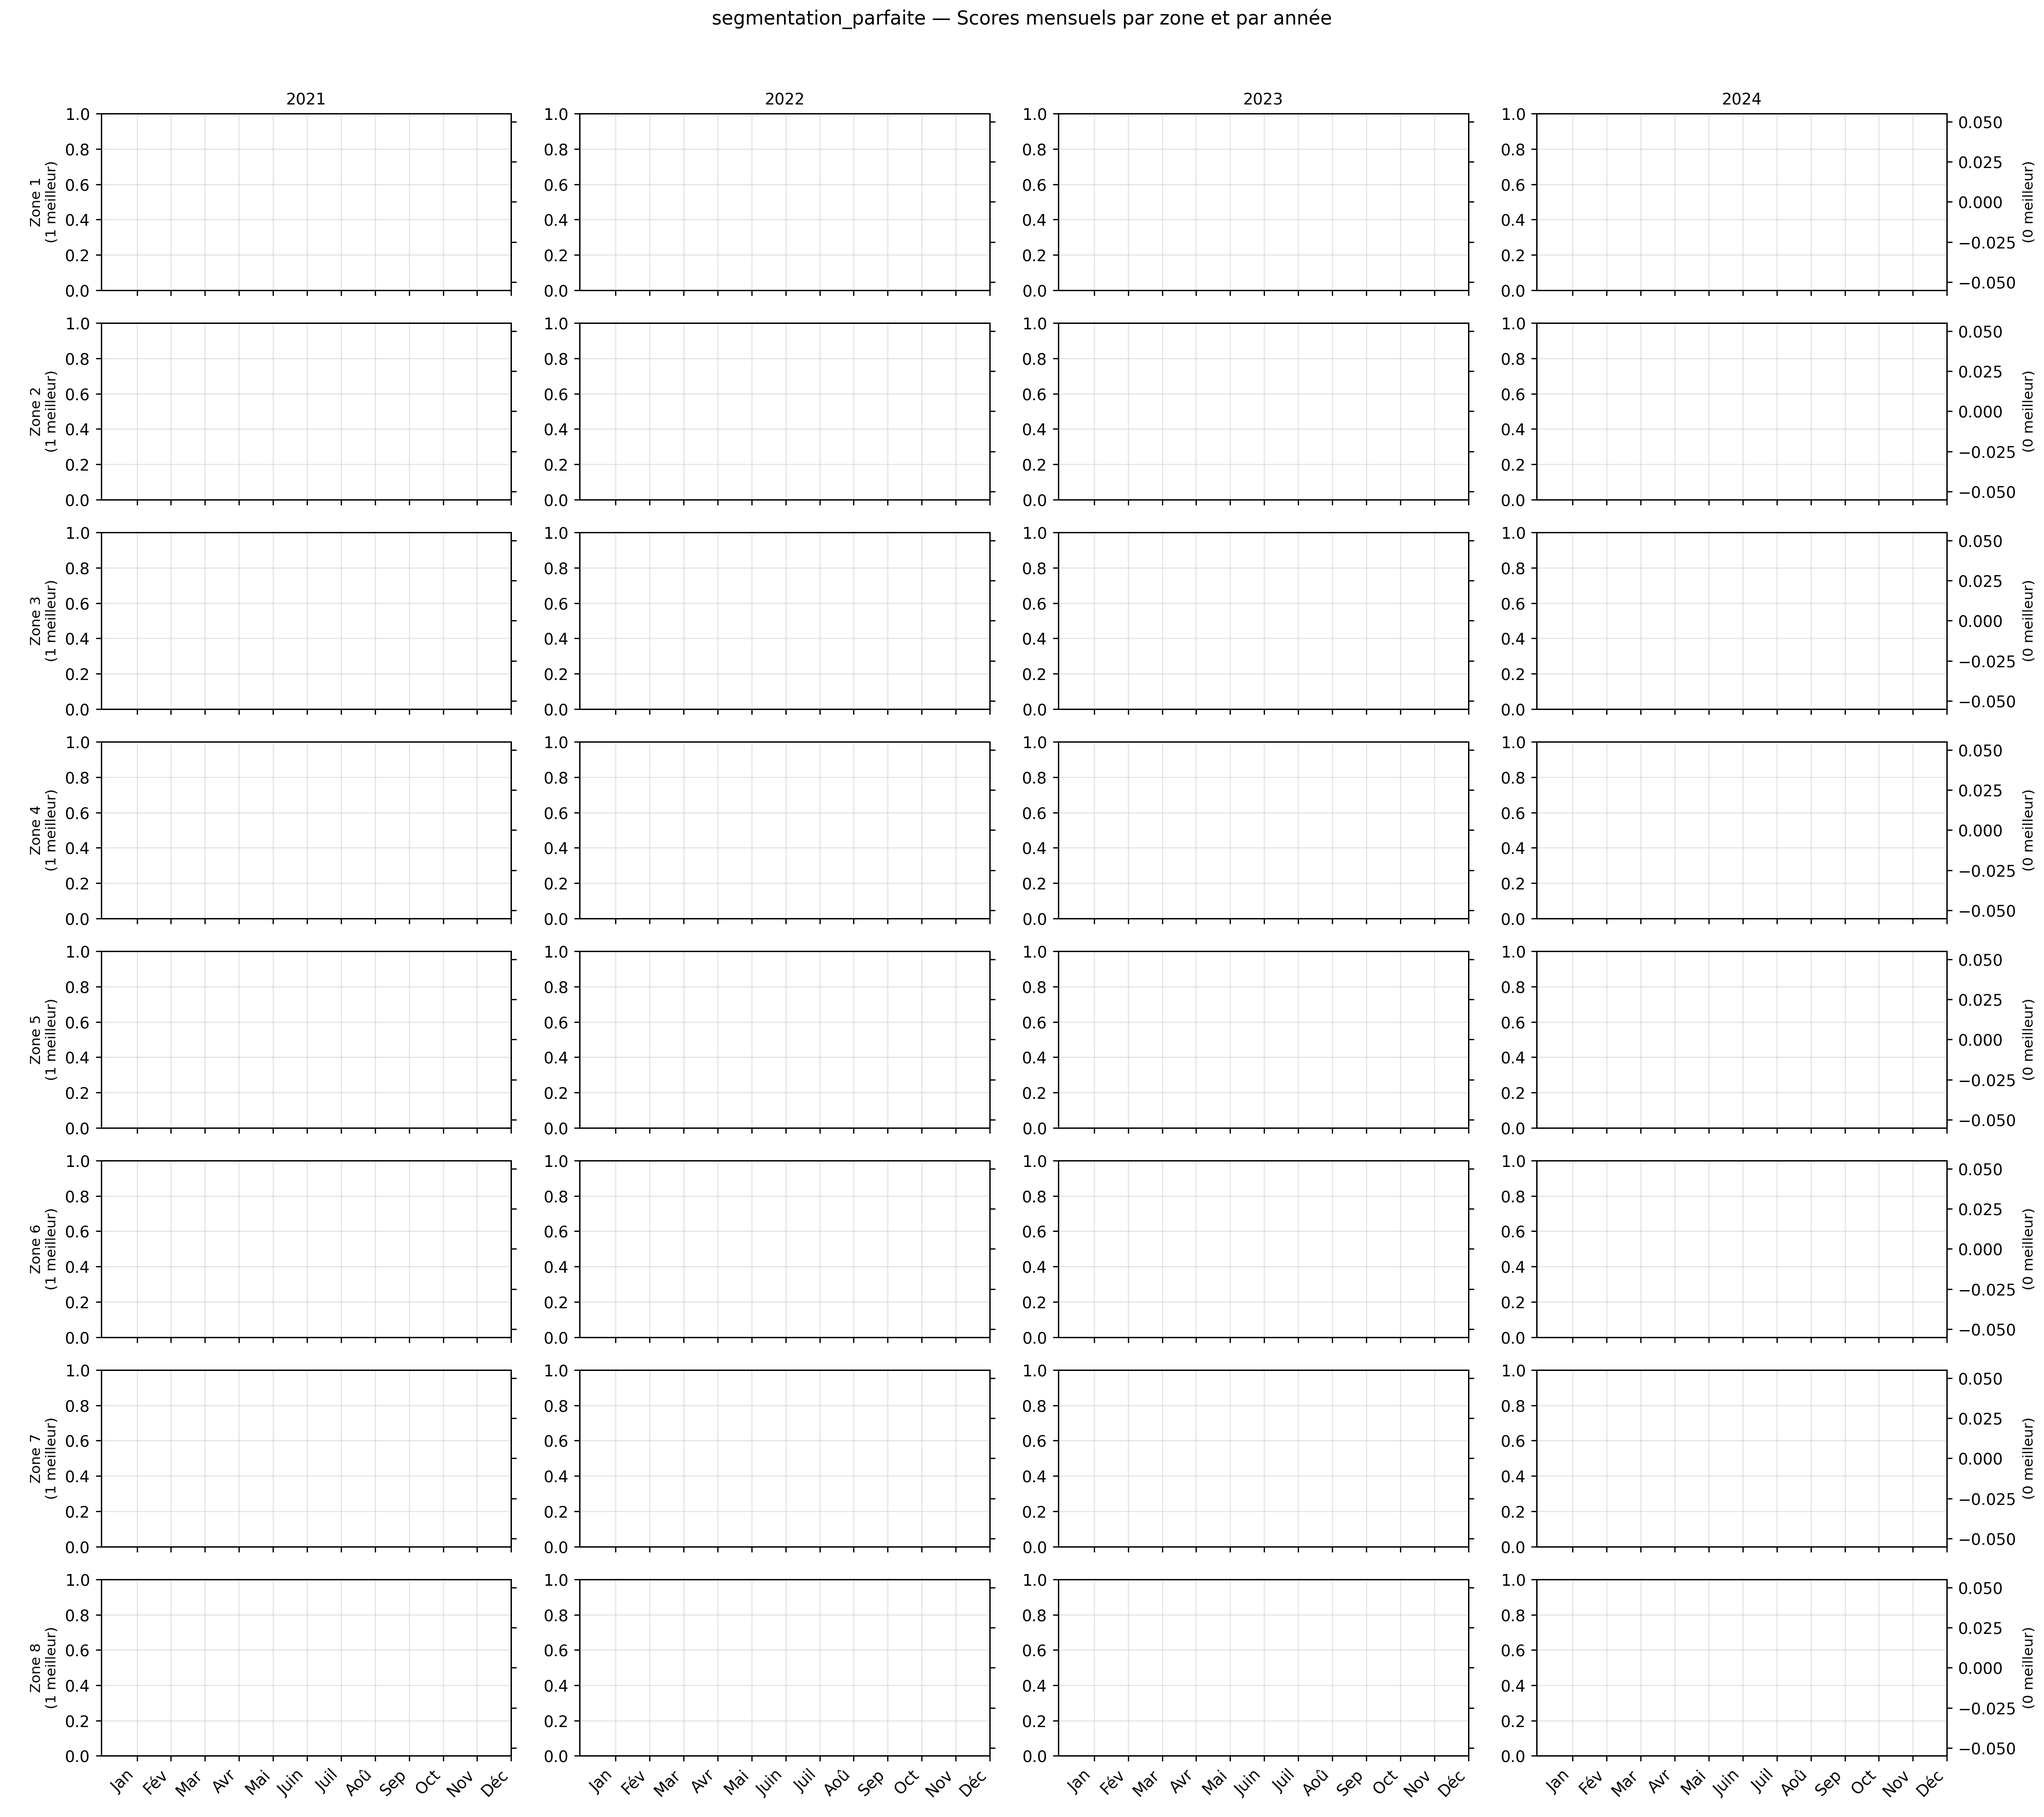
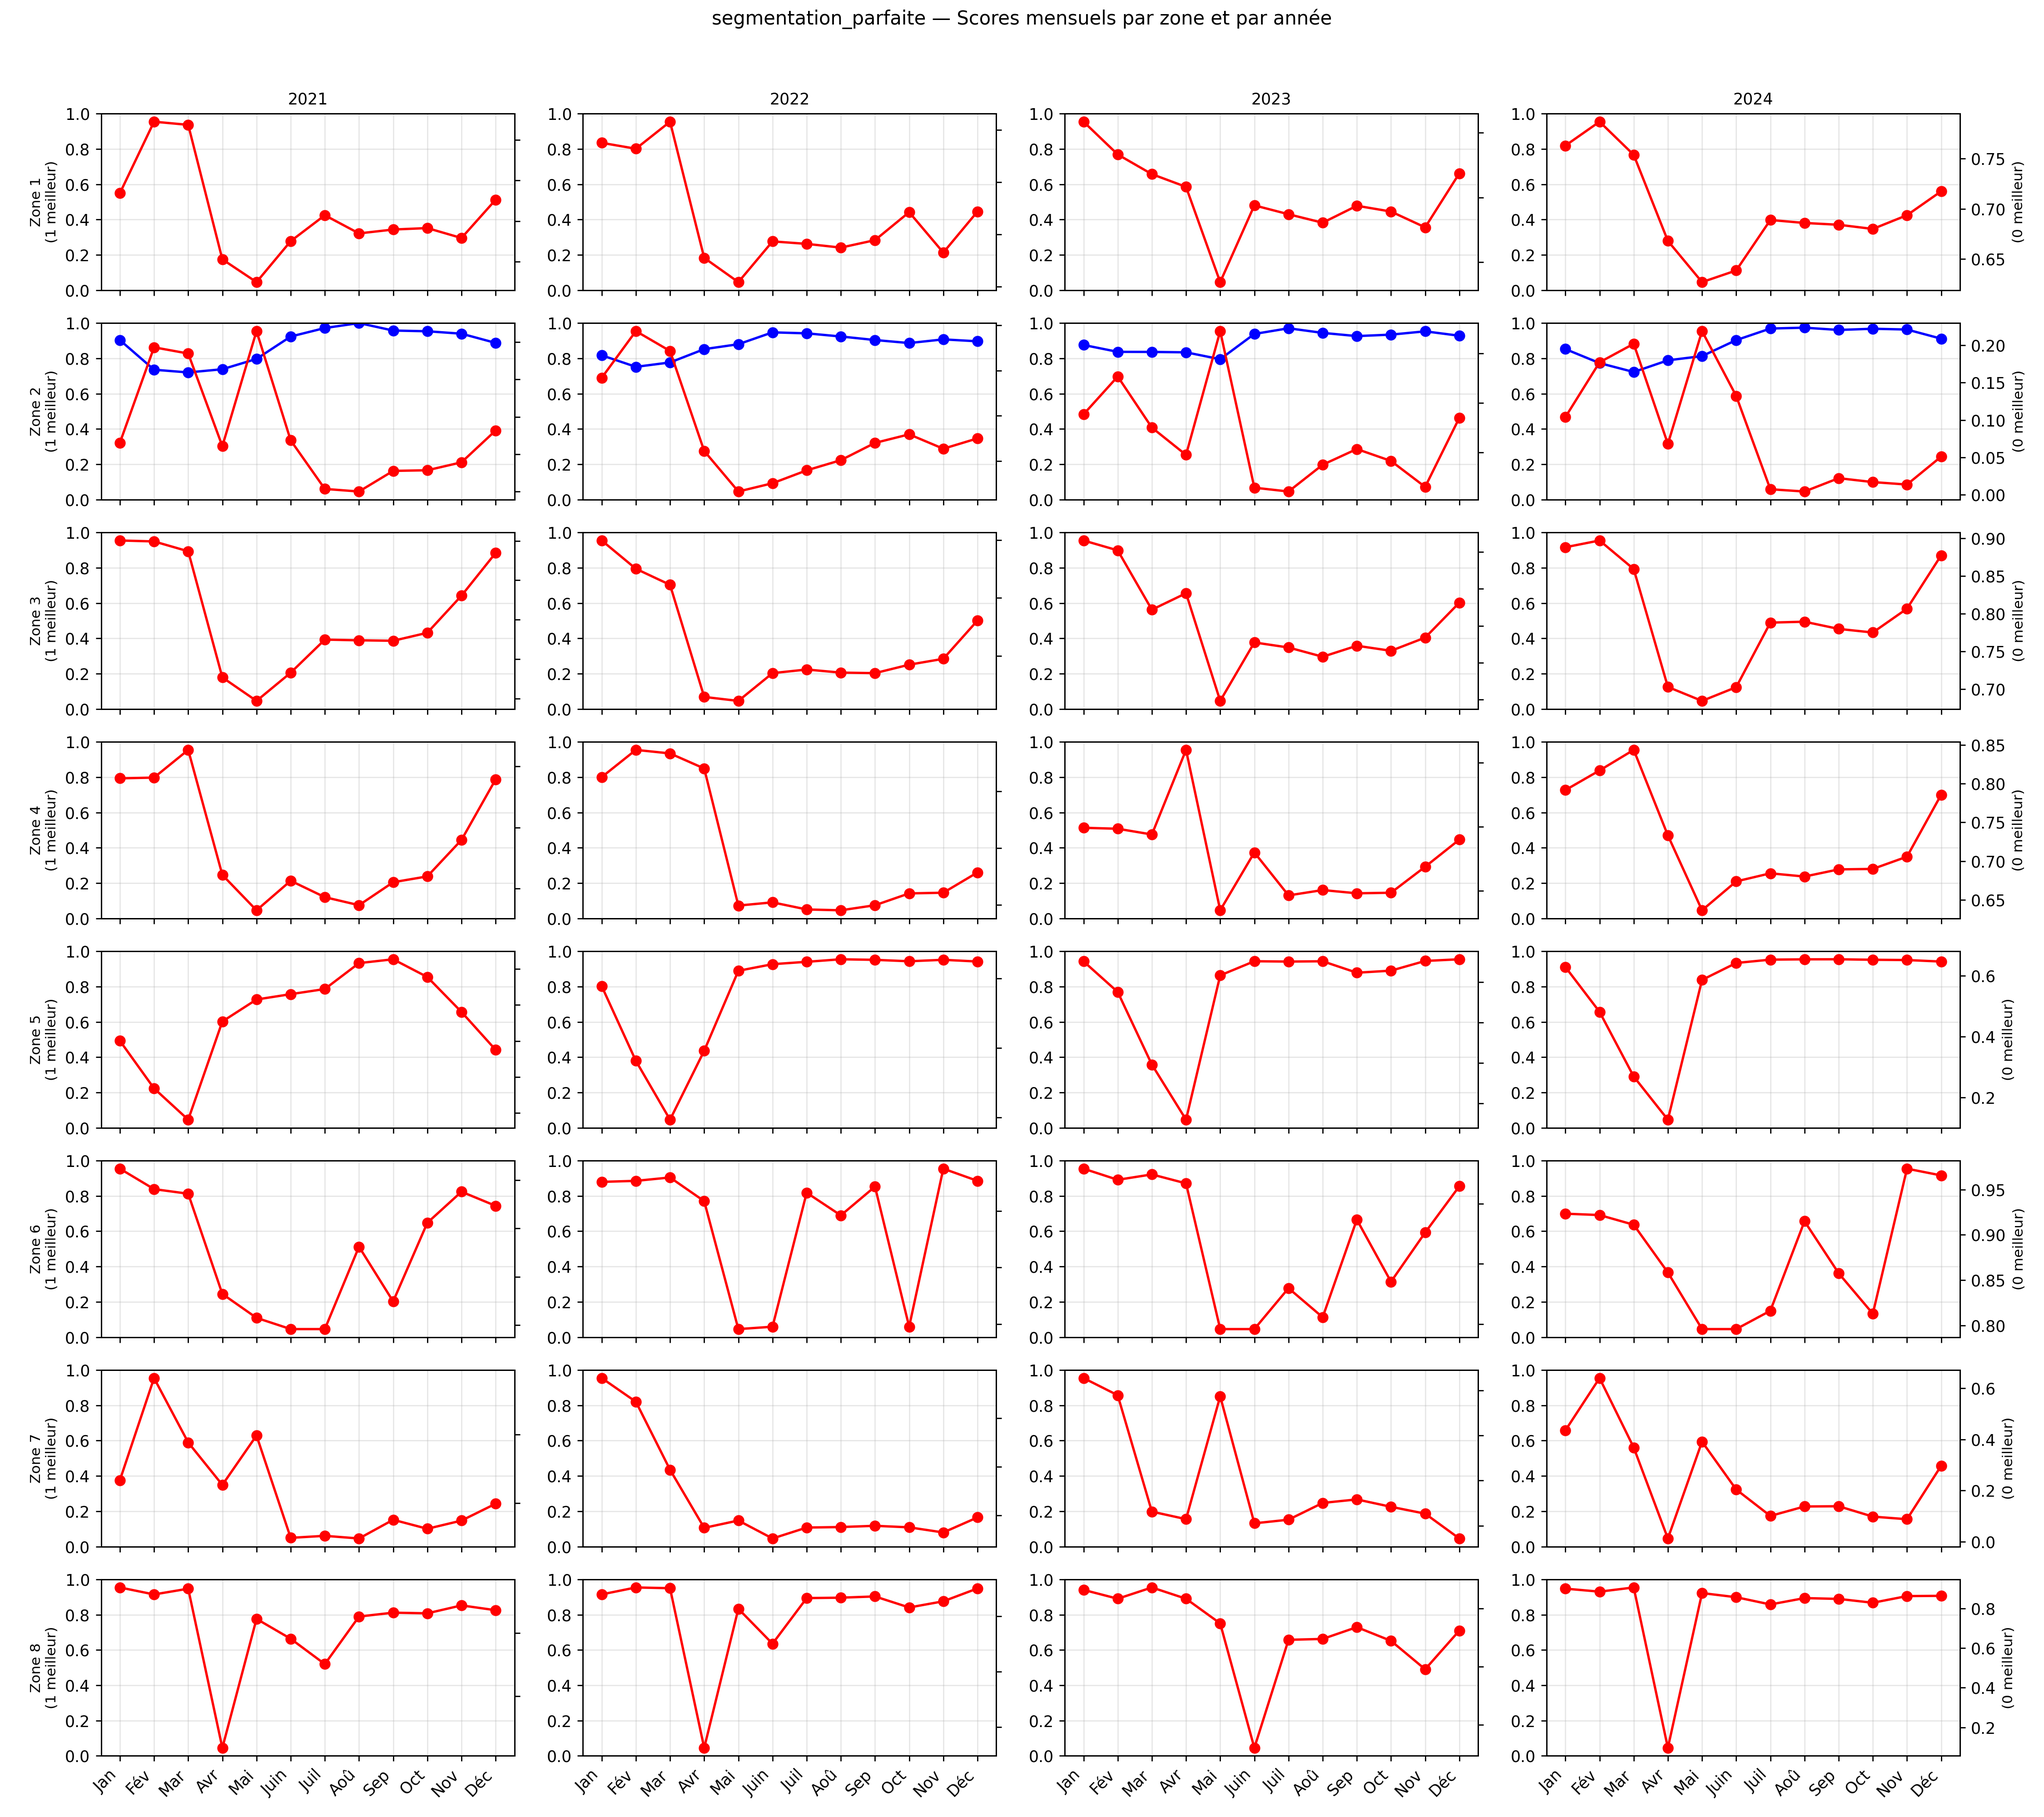
ajout des graphiques des scores

diff --git a/codes/manipulation_images_tif.py b/codes/manipulation_images_tif.py
@@ -393,34 +393,111 @@ Similarité structurelle moyenne  : {round(np.nanmean(ssim_vals),3)}
         
         f.write(resultat)
 
+def moyenne_scores_annees(fonction_segmentation: Callable[[MaskedArray], ndarray],
+                        annees: list[int] = [2021, 2022, 2023, 2024]) -> None:
+
+    temps_execution = []
+
+    hamming_vals = []
+    diff_aire_vals = []
+    fausse_vals = []
+
+    vraie_vals = []
+    accuracy_vals = []
+    corr_vals = []
+    ssim_vals = []
+
+    for annee in annees:
+        for zone in range(1, 9):
+
+            print(f"segmentation Zone {zone}/8 ", end="")
+
+            dir_oasis = f'./Data/Test_zone{zone}/STATS/MeanMonthly/'
+            dir_gt = f'./GroundTruth_DYN/Test_zone{zone}/'
+
+            for mois in range(1, 13):
+
+                print(f".", end="")
+
+                date = f"{annee}{mois:02d}"
+                img_path = premier_fichier_dossier(f"{dir_oasis}*{date}*.tif")
+
+                if img_path is None:
+                    continue
+
+                gt_path = premier_fichier_dossier(f"{dir_gt}*{date}*.tif")
+
+                if gt_path is None:
+                    continue
+
+                image_oasis = recuperer_image(img_path)
+                image_gt = recuperer_image(gt_path).astype(int)
+
+                start = time.time()
+                image_seg = fonction_segmentation(image_oasis)
+                end = time.time()
+
+                temps_execution.append(end - start)
+
+                hamming_vals.append(distance_hamming(image_seg, image_gt))
+                diff_aire_vals.append(difference_aire(image_seg, image_gt))
+                fausse_vals.append(fausse_detection(image_seg, image_gt))
+
+                vraie_vals.append(vraie_detection(image_seg, image_gt))
+                accuracy_vals.append(score_precision(image_seg, image_gt))
+                corr_vals.append(score_correlation(image_seg, image_gt))
+                ssim_vals.append(similarite_structurelle(image_seg, image_gt))
+
+            print()
+
+    resultat = f"""
+Scores moyens sur toutes les années {annees} :
+
+Temps d'éxécution moyen          : {round(np.mean(temps_execution), 3)}
+
+Distance de Hamming moyenne      : {round(np.nanmean(hamming_vals), 3)}
+Différence d'aire moyenne        : {round(np.nanmean(diff_aire_vals), 3)}
+Fausse détection moyenne         : {round(np.nanmean(fausse_vals), 3)}
+
+Vraie détection moyenne          : {round(np.nanmean(vraie_vals), 3)}
+Score de précision moyen         : {round(np.nanmean(accuracy_vals), 3)}
+Corrélation moyenne              : {round(np.nanmean(corr_vals), 3)}
+Similarité structurelle moyenne  : {round(np.nanmean(ssim_vals), 3)}
+"""
+
+    print(resultat)
+
+    with open(f"{DOSSIER_SORTIE}/score_{fonction_segmentation.__name__}.txt", "w") as f:
+        f.write(resultat)
+
+
+def scores_0(pred, gt):
+
+    scores = [
+        distance_hamming(pred, gt),
+        difference_aire(pred, gt),
+        fausse_detection(pred, gt)
+    ]
+
+    return np.nanmean(scores)
+
+def scores_1(pred, gt):
+
+    scores = [
+        vraie_detection(pred, gt),
+        score_precision(pred, gt),
+        score_correlation(pred, gt),
+        similarite_structurelle(pred, gt)
+    ]
+
+    return np.nanmean(scores)
+
 def graphe_scores_mensuels_2courbes_8zones_4ans(fonction_segmentation: Callable[[MaskedArray], ndarray],
                                                annees: list[int] = [2021, 2022, 2023, 2024],
                                                mean_monthly: bool = True,
                                                resolution: int = 250,
-                                               figsize: tuple[int, int] = (18, 16)) -> None:
+                                               figsize: tuple[int, int] = (16, 14)) -> None:
     
-    def _to_binary(a):
-        if hasattr(a, "filled"):
-            a = a.filled(0)
-        return (a > 0).astype(np.uint8)
-
-    def iou_score(pred, gt):
-        p = _to_binary(pred).ravel()
-        g = _to_binary(gt).ravel()
-        inter = np.sum((p == 1) & (g == 1))
-        union = np.sum((p == 1) | (g == 1))
-        return 1.0 if union == 0 else inter / union
-
-    def score_0_meilleur(pred, gt):
-        if "distance_hamming" in globals():
-            return distance_hamming(pred, gt)
-        if "difference_aire" in globals():
-            return difference_aire(pred, gt)
-        if "fausse_detection" in globals():
-            return fausse_detection(pred, gt)
-        
-        return np.nan
-
     mois_labels = ["Jan", "Fév", "Mar", "Avr", "Mai", "Juin", "Juil", "Aoû", "Sep", "Oct", "Nov", "Déc"]
     x = np.arange(1, 13)
 
@@ -429,10 +506,10 @@ def graphe_scores_mensuels_2courbes_8zones_4ans(fonction_segmentation: Callable[
     if n_years == 1:
         axes = axes.reshape(8, 1)
 
-    temps_execution = []
-
     for j, annee in enumerate(annees):
+        
         for i, zone in enumerate(range(1, 9)):
+
             ax = axes[i, j]
 
             dir_oasis = f'./Data/Test_zone{zone}/{"STATS/MeanMonthly" if mean_monthly else "OASIS"}/'
@@ -447,29 +524,21 @@ def graphe_scores_mensuels_2courbes_8zones_4ans(fonction_segmentation: Callable[
                 gt_path = premier_fichier_dossier(f"{dir_gt}*{date}*.tif")
 
                 if img_path is None or gt_path is None:
-                    s1.append(np.nan)
-                    s0.append(np.nan)
                     continue
 
                 image = recuperer_image(img_path)
-                image_gt = recuperer_image(gt_path).astype(int)
-
-                start = time.time()
+                image_gt = image_reference_binaire(recuperer_image(gt_path))
                 image_seg = fonction_segmentation(image)
-                end = time.time()
-                temps_execution.append(end - start)
 
-                s1.append(iou_score(image_seg, image_gt))
-                s0.append(score_0_meilleur(image_seg, image_gt))
+                s1.append(scores_1(image_seg, image_gt))
+                s0.append(scores_0(image_seg, image_gt))
 
-            ax.plot(x, s1, marker="o", color="blue")
+            
+            ax.plot(x, s1, marker="o", color="blue", label="Scores vers 1")
+            ax.plot(x, s0, marker="o", color="red", label="Scores vers 0")
             ax.set_ylim(0, 1)
-            ax.grid(True, alpha=0.3)
-
-            ax2 = ax.twinx()
-            ax2.plot(x, s0, marker="o", color="red")
-
-            ax.set_xticks(x)
+            ax.legend(loc="upper right", fontsize=8)
+            
             if i == 7:
                 ax.set_xticklabels(mois_labels, rotation=45, ha="right")
             else:
@@ -479,44 +548,37 @@ def graphe_scores_mensuels_2courbes_8zones_4ans(fonction_segmentation: Callable[
                 ax.set_title(f"{annee}", fontsize=10)
 
             if j == 0:
-                ax.set_ylabel(f"Zone {zone}\n(1 meilleur)", fontsize=9)
+                ax.set_ylabel(f"Zone {zone}\n", fontsize=9)
             else:
                 ax.set_ylabel("")
 
-            if j == n_years - 1:
-                ax2.set_ylabel("(0 meilleur)", fontsize=9)
-            else:
-                ax2.set_ylabel("")
-                ax2.set_yticklabels([])
 
     fig.suptitle(f"{fonction_segmentation.__name__} — Scores mensuels par zone et par année", y=0.995)
     plt.tight_layout(rect=[0, 0, 1, 0.98])
     plt.savefig(f"{DOSSIER_SORTIE}/scores_8zones_4ans_2courbes_{fonction_segmentation.__name__}.png", dpi=resolution)
     plt.show()
 
-    if len(temps_execution) > 0:
-        print(f"temps d'éxécution moyen : {round(float(np.mean(temps_execution)), 3)} s")
-
 
 
 if __name__ == "__main__": # tests
 
 
-    def segmentation_parfaite(image : MaskedArray) -> ndarray:
+    def segmentation_test(image : MaskedArray) -> ndarray:
 
-        image_ref = image_reference_binaire(recuperer_image("GroundTruth_DYN/Test_zone2/Var_202108.tif"))
+        image = np.nan_to_num(image, nan=0)
+        image[image < 0.5] = 0
 
-        return image_ref
+        return image
 
 
     #image_ref = recuperer_images(zone = 2, selected_dates=['20210816'])[0]
     #image_ref = recuperer_image("./Data/Test_zone6/OASIS/s1a_fusion_ASC_161_20210118_oasis_VV_Offset55_Test_zone6.tif")
-    #image_segmentee = segmentation_parfaite(image_ref)
+    #image_segmentee = segmentation_test(image_ref)
 
-    #test_segmentation(image_ref, segmentation_parfaite)
-    tests_segmentation(segmentation_parfaite)
-    moyenne_scores(segmentation_parfaite)
-    #graphe_scores_mensuels_2courbes_8zones_4ans(segmentation_parfaite)
+    #test_segmentation(image_ref, segmentation_test)
+    #tests_segmentation(segmentation_test)
+    #moyenne_scores(segmentation_test)
+    graphe_scores_mensuels_2courbes_8zones_4ans(segmentation_test)
     
 
     

diff --git a/codes/RF2.py b/codes/RF2.py
@@ -44,7 +44,7 @@ def train_random_forest(images : list[MaskedArray], masks : list[MaskedArray]) -
         max_depth=10,
         random_state=0,
         n_jobs=5,
-        verbose=2 #2
+        verbose=0 # 2
     )
     model.fit(x_train, y_train)
 
@@ -107,7 +107,7 @@ def load_model(filemane : str) -> RandomForestClassifier:
 
 if __name__ == "__main__":
 
-
+    """
     images, masks = load_training_data(annees=[2021,2022])
     print(f"nombre d'images : {len(images)}/{len(masks)}")
 
@@ -118,14 +118,17 @@ if __name__ == "__main__":
     print(f"temps d'entrainement {round(end-start,3)} secondes")
    
     save_model(model,"entrainement RF 2021-2022")
+    """
 
+    model = load_model("entrainement RF 2021-2022")
 
     def segmentation_random_forest(image : np.ma.MaskedArray) -> np.ndarray:
 
         return predict_segmentation(model, image)
-
+    
     #image_test = recuperer_images(mean_monthly=True,zone=5,selected_dates=['202407'])[0]
     #test_segmentation(image_test, segmentation_random_forest)
 
     #tests_segmentation(segmentation_random_forest,annee=2023)
-    #moyenne_scores_annees(segmentation_random_forest, annees=[2023,2024])
+    moyenne_scores_annees(segmentation_random_forest, annees=[2023,2024])
+    graphe_scores_mensuels_2courbes_8zones_4ans(segmentation_random_forest)

diff --git a/codes/seuilF.py b/codes/seuilF.py
@@ -24,5 +24,6 @@ if __name__ == "__main__": # tests
     #image_ref = recuperer_images(zone=5, selected_dates=['202102'])[0]
     #test_segmentation(image_ref, segmentation_seuillage_fixe)
     
-    tests_segmentation(segmentation_seuillage_fixe, annee=2021)
-    moyenne_scores_annees(segmentation_seuillage_fixe)
+    #tests_segmentation(segmentation_seuillage_fixe, annee=2021)
+    #moyenne_scores_annees(segmentation_seuillage_fixe)
+    graphe_scores_mensuels_2courbes_8zones_4ans(segmentation_seuillage_fixe)

diff --git a/codes/manipulation_image_tif.py b/codes/manipulation_image_tif.py
@@ -389,7 +389,7 @@ Similarité structurelle moyenne  : {round(np.nanmean(ssim_vals),3)}
         f.write(resultat)
 
 
-def moyenne_scores_anne(fonction_segmentation: Callable[[MaskedArray], ndarray],
+def moyenne_scores_annees(fonction_segmentation: Callable[[MaskedArray], ndarray],
                         annees: list[int] = [2021, 2022, 2023, 2024]) -> None:
 
     temps_execution = []
